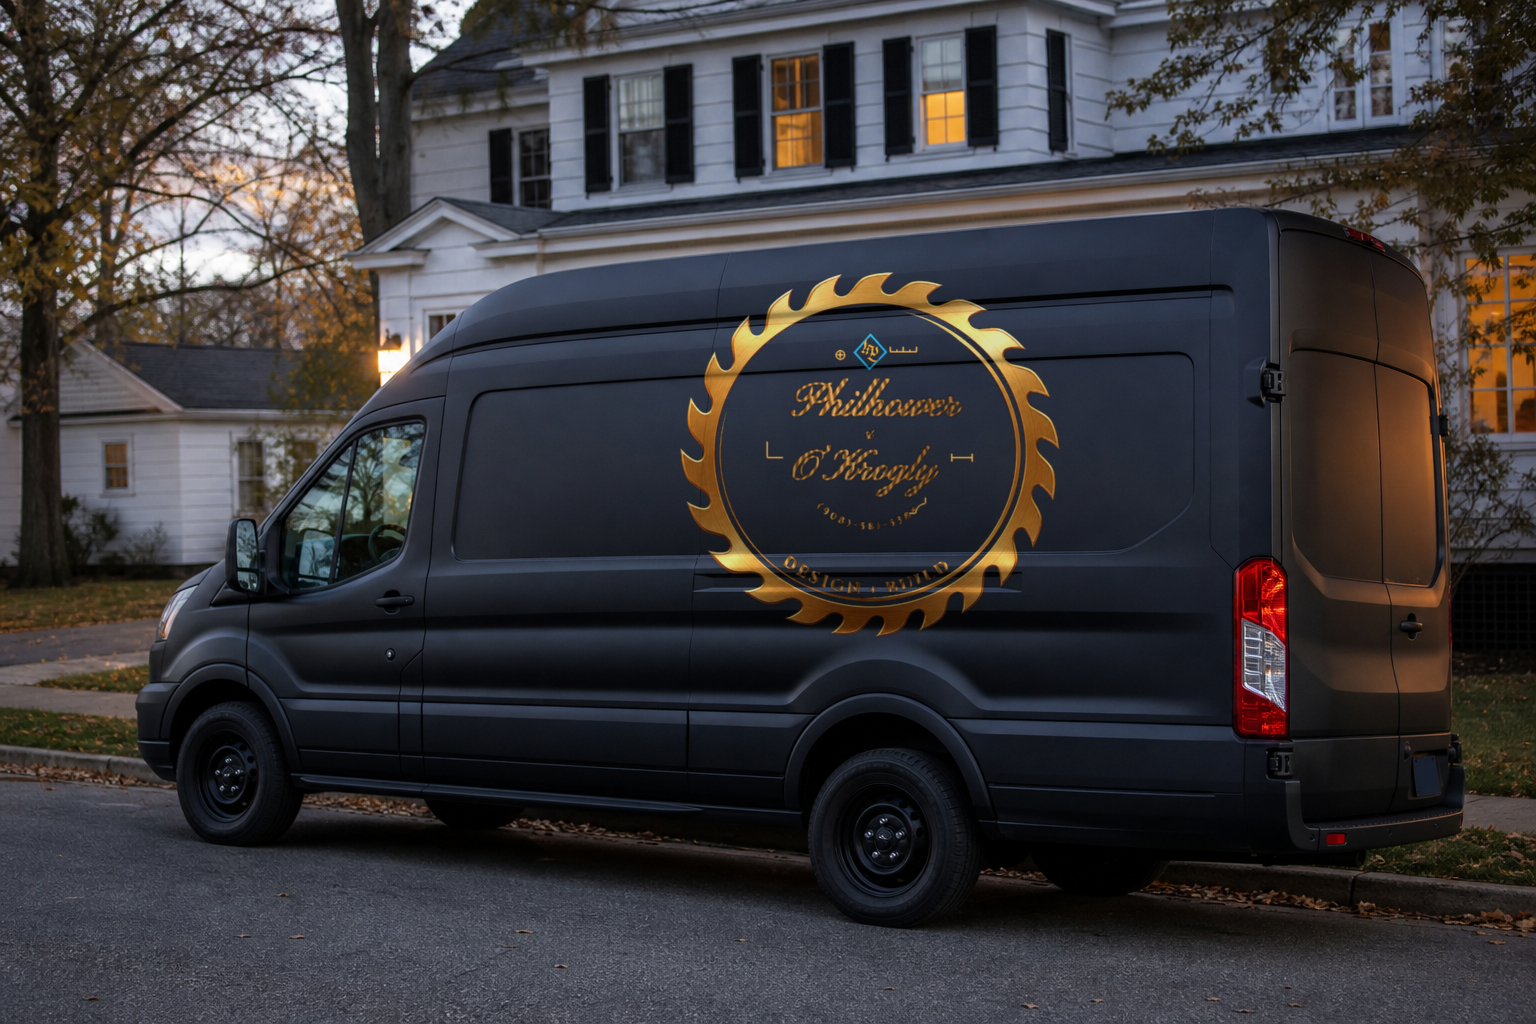
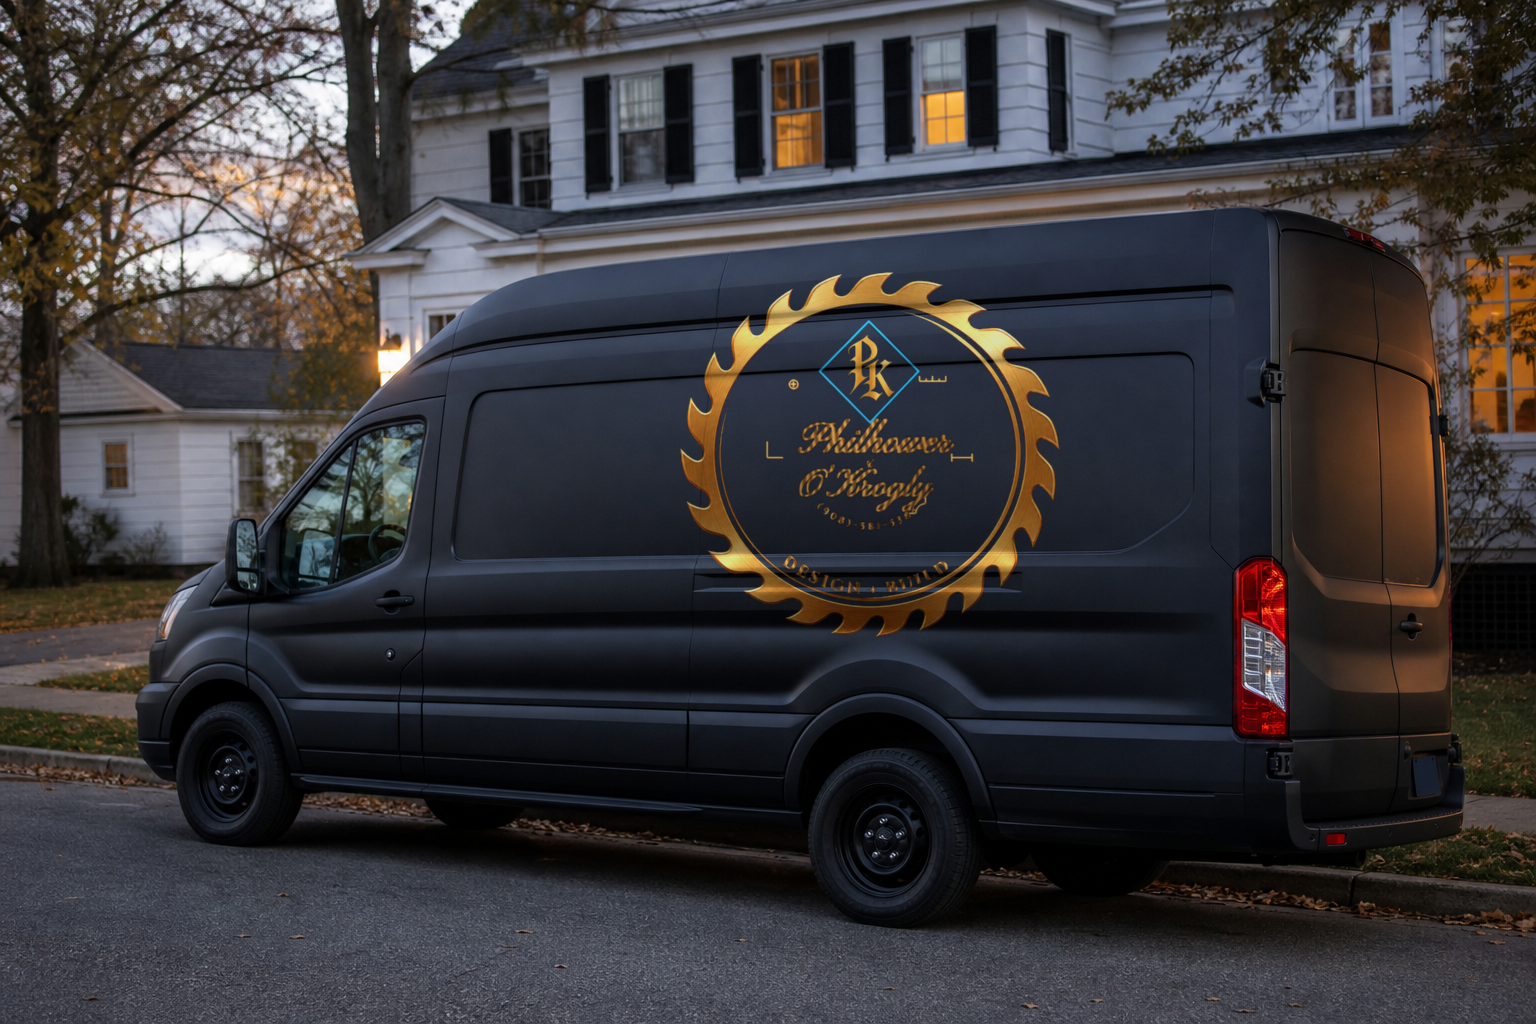
Enlarge the POK cyan diamond with a modern Old English PK and add a seal.
The diamond is larger, PK is blackletter, and a circular professional seal uses the same monogram. Theme 1.0.18.

Changed region(s): [[0.5, 0.3125, 0.625, 0.5]]

diff --git a/dphilhower-studio-wp/preview/work/philhower-okrogly/index.html b/dphilhower-studio-wp/preview/work/philhower-okrogly/index.html
@@ -4,7 +4,7 @@
   <meta charset="utf-8">
   <meta name="viewport" content="width=device-width, initial-scale=1">
   <title>Philhower &amp; O’Krogly — D Philhower Studio</title>
-  <meta name="description" content="Philhower &amp; O’Krogly Design + Build by D Philhower Studio: Hills saw blade, blue diamond, matching script names, five measure marks, polo, van, yard sign, and magnet.">
+  <meta name="description" content="Philhower &amp; O’Krogly Design + Build by D Philhower Studio: Hills saw blade, larger PK diamond in modern Old English, professional seal, polo, van, yard sign, and magnet.">
   <link rel="icon" href="../../img/favicon.svg" type="image/svg+xml">
   <link rel="preconnect" href="https://fonts.googleapis.com">
   <link rel="preconnect" href="https://fonts.gstatic.com" crossorigin>
@@ -31,7 +31,7 @@
       <p>Design + Build</p>
     </header>
     <div class="case-hero">
-      <img src="../../img/pok-hero.png" alt="Philhower &amp; O’Krogly lockup: Hills saw blade, blue diamond, both names in the same script, five measure marks, DESIGN + BUILD on the ring, (908)-581-5385" width="1536" height="1024">
+      <img src="../../img/pok-hero.png" alt="Philhower &amp; O’Krogly lockup: Hills saw blade, larger PK diamond in modern Old English, both names in script, five measure marks, DESIGN + BUILD, (908)-581-5385" width="1536" height="1024">
     </div>
     <article class="case-body">
       <ul class="case-meta">
@@ -41,15 +41,19 @@
         <li><strong>Place</strong><br>Northern New Jersey</li>
       </ul>
       <div class="entry-content">
-        <p>The Hills saw blade is the tool. Blue stays the diamond from the 2025 stitch. Both names sit in the same script. Five quiet measure marks — registration, scale, square, dimension, radius. Wood letters, bronze blade. DESIGN + BUILD runs the inner ring. (908)-581-5385 stays in the mark.</p>
+        <p>The Hills saw blade is the tool. The cyan diamond is larger now, with PK in a modern Old English cut. A circular professional seal uses the same monogram. Both names sit in the same script. Five quiet measure marks — registration, scale, square, dimension, radius. Wood letters, bronze blade. DESIGN + BUILD runs the inner ring. (908)-581-5385 stays in the mark.</p>
         <p>One lockup. Polo, van, yard, card, fridge. Black field so gold reads. Blue is only the diamond.</p>
       </div>
     </article>
     <section class="brand-kit">
       <p class="section-label">Print system</p>
       <h2 class="section-title">One lockup, five scales</h2>
-      <p class="section-copy">The blade, the blue diamond, one script, five measure marks. Same file on the shirt, the van, the lawn, the card, and the fridge.</p>
+      <p class="section-copy">The blade, a larger PK diamond in modern Old English, one script, five measure marks. Same file on the shirt, the van, the lawn, the card, and the fridge.</p>
       <div class="print-system">
+        <figure>
+          <img src="../../img/pok-seal-hero.png" alt="Philhower &amp; O’Krogly professional seal with a PK Old English monogram in a cyan diamond" width="1536" height="1024">
+          <figcaption><strong>Seal</strong> Circular seal. PK in modern Old English, cyan diamond, PHILHOWER / DESIGN + BUILD / O’KROGLY on the rings.</figcaption>
+        </figure>
         <figure>
           <img src="../../img/pok-print-shirt.png" alt="Black polo with the Philhower &amp; O’Krogly saw-blade lockup centered on the chest" width="1536" height="1024">
           <figcaption><strong>Polo</strong> Center chest. Blue diamond. Same script for both names. Five measure marks. DESIGN + BUILD in the Hills blade.</figcaption>

diff --git a/dphilhower-studio-wp/theme/dphilhower-studio/style.css b/dphilhower-studio-wp/theme/dphilhower-studio/style.css
@@ -4,7 +4,7 @@ Theme URI: https://dphilhower.com
 Author: D Philhower Studio
 Author URI: https://dphilhower.com
 Description: Custom graphic design studio theme for D Philhower Studio at dphilhower.com — portfolio, services, about, and project inquiries. Activate the theme to load demo pages and work samples.
-Version: 1.0.17
+Version: 1.0.18
 Requires at least: 6.4
 Tested up to: 6.8
 Requires PHP: 7.4

diff --git a/dphilhower-studio-wp/theme/dphilhower-studio/inc/setup-content.php b/dphilhower-studio-wp/theme/dphilhower-studio/inc/setup-content.php
@@ -176,6 +176,8 @@ function dps_seed_demo_content( $force = false ) {
 		'sthills-hero.png'       => dps_sideload_theme_image( 'sthills-hero.png', 'Service The Hills' ),
 		'bvdeli-hero.png'        => dps_sideload_theme_image( 'bvdeli-hero.png', 'Bernardsville Deli' ),
 		'pok-hero.png'           => dps_sideload_theme_image( 'pok-hero.png', 'Philhower & O’Krogly' ),
+		'pok-seal-hero.png'      => dps_sideload_theme_image( 'pok-seal-hero.png', 'Philhower & O’Krogly PK seal' ),
+		'pok-diamond-pk.png'     => dps_sideload_theme_image( 'pok-diamond-pk.png', 'Philhower & O’Krogly PK diamond' ),
 		'cafe-robust-hero.png'   => dps_sideload_theme_image( 'cafe-robust-hero.png', 'Cafe Robust' ),
 		'expresso-hero.png'      => dps_sideload_theme_image( 'expresso-hero.png', 'EXPresso' ),
 	);
@@ -324,7 +326,7 @@ function dps_seed_demo_content( $force = false ) {
 			'services' => 'Identity · embroidery · vehicle · signage',
 			'year'     => '2025',
 			'location' => 'Northern New Jersey',
-			'content'  => '<p>The Hills saw blade is the tool. Blue stays the diamond from the 2025 stitch. Both names sit in the same script. Five quiet measure marks — registration, scale, square, dimension, radius. Wood letters, bronze blade. DESIGN + BUILD runs the inner ring. (908)-581-5385 stays in the mark.</p><p>One lockup. Polo, van, yard, card, fridge. Black field so gold reads. Blue is only the diamond.</p>',
+			'content'  => '<p>The Hills saw blade is the tool. The cyan diamond is larger now, with PK in a modern Old English cut. A circular professional seal uses the same monogram. Both names sit in the same script. Five quiet measure marks — registration, scale, square, dimension, radius. Wood letters, bronze blade. DESIGN + BUILD runs the inner ring. (908)-581-5385 stays in the mark.</p><p>One lockup. Polo, van, yard, card, fridge. Black field so gold reads. Blue is only the diamond.</p>',
 		),
 		array(
 			'slug'     => 'cafe-robust',
@@ -459,7 +461,7 @@ function dps_seed_demo_content( $force = false ) {
 	flush_rewrite_rules();
 
 	update_option( 'dps_demo_seeded', DPS_VERSION );
-	update_option( 'dps_images_version', 'brands-print-10' );
+	update_option( 'dps_images_version', 'brands-print-11' );
 	return true;
 }
 

diff --git a/dphilhower-studio-wp/theme/dphilhower-studio/inc/brand-kits.php b/dphilhower-studio-wp/theme/dphilhower-studio/inc/brand-kits.php
@@ -289,8 +289,14 @@ function dps_brand_kits() {
 		'philhower-okrogly'        => array(
 			'label'  => __( 'Print system', 'dphilhower-studio' ),
 			'title'  => __( 'One lockup, five scales', 'dphilhower-studio' ),
-			'intro'  => __( 'The Hills saw blade is the tool. Blue stays the diamond. Both names sit in the same script. Five quiet measure marks. Wood letters, bronze blade. DESIGN + BUILD runs the ring. Polo, van, yard, card, fridge — one lockup.', 'dphilhower-studio' ),
+			'intro'  => __( 'The Hills saw blade is the tool. A larger cyan diamond holds PK in modern Old English. A professional seal uses the same monogram. Both names sit in the same script. Five quiet measure marks. Wood letters, bronze blade. DESIGN + BUILD runs the ring. Polo, van, yard, card, fridge — one lockup.', 'dphilhower-studio' ),
 			'pieces' => array(
+				array(
+					'file'    => 'pok-seal-hero.png',
+					'alt'     => __( 'Philhower & O’Krogly professional seal with a PK Old English monogram in a cyan diamond', 'dphilhower-studio' ),
+					'heading' => __( 'Seal', 'dphilhower-studio' ),
+					'story'   => __( 'Circular seal. PK in modern Old English, cyan diamond, PHILHOWER / DESIGN + BUILD / O’KROGLY on the rings. Gold bead border on black.', 'dphilhower-studio' ),
+				),
 				array(
 					'file'    => 'pok-print-shirt.png',
 					'alt'     => __( 'Black polo with the Philhower & O’Krogly saw-blade lockup centered on the chest', 'dphilhower-studio' ),

diff --git a/dphilhower-studio-wp/theme/dphilhower-studio/functions.php b/dphilhower-studio-wp/theme/dphilhower-studio/functions.php
@@ -9,7 +9,7 @@ if ( ! defined( 'ABSPATH' ) ) {
 	exit;
 }
 
-define( 'DPS_VERSION', '1.0.17' );
+define( 'DPS_VERSION', '1.0.18' );
 define( 'DPS_DIR', get_template_directory() );
 define( 'DPS_URI', get_template_directory_uri() );
 
@@ -164,14 +164,14 @@ function dps_maybe_upgrade_images() {
 	if ( 'dphilhower-studio' !== get_stylesheet() ) {
 		return;
 	}
-	if ( get_option( 'dps_images_version' ) === 'brands-print-10' ) {
+	if ( get_option( 'dps_images_version' ) === 'brands-print-11' ) {
 		return;
 	}
 	if ( ! get_option( 'dps_demo_seeded' ) ) {
 		return;
 	}
 	dps_seed_demo_content( true );
-	update_option( 'dps_images_version', 'brands-print-10' );
+	update_option( 'dps_images_version', 'brands-print-11' );
 }
 
 /**
